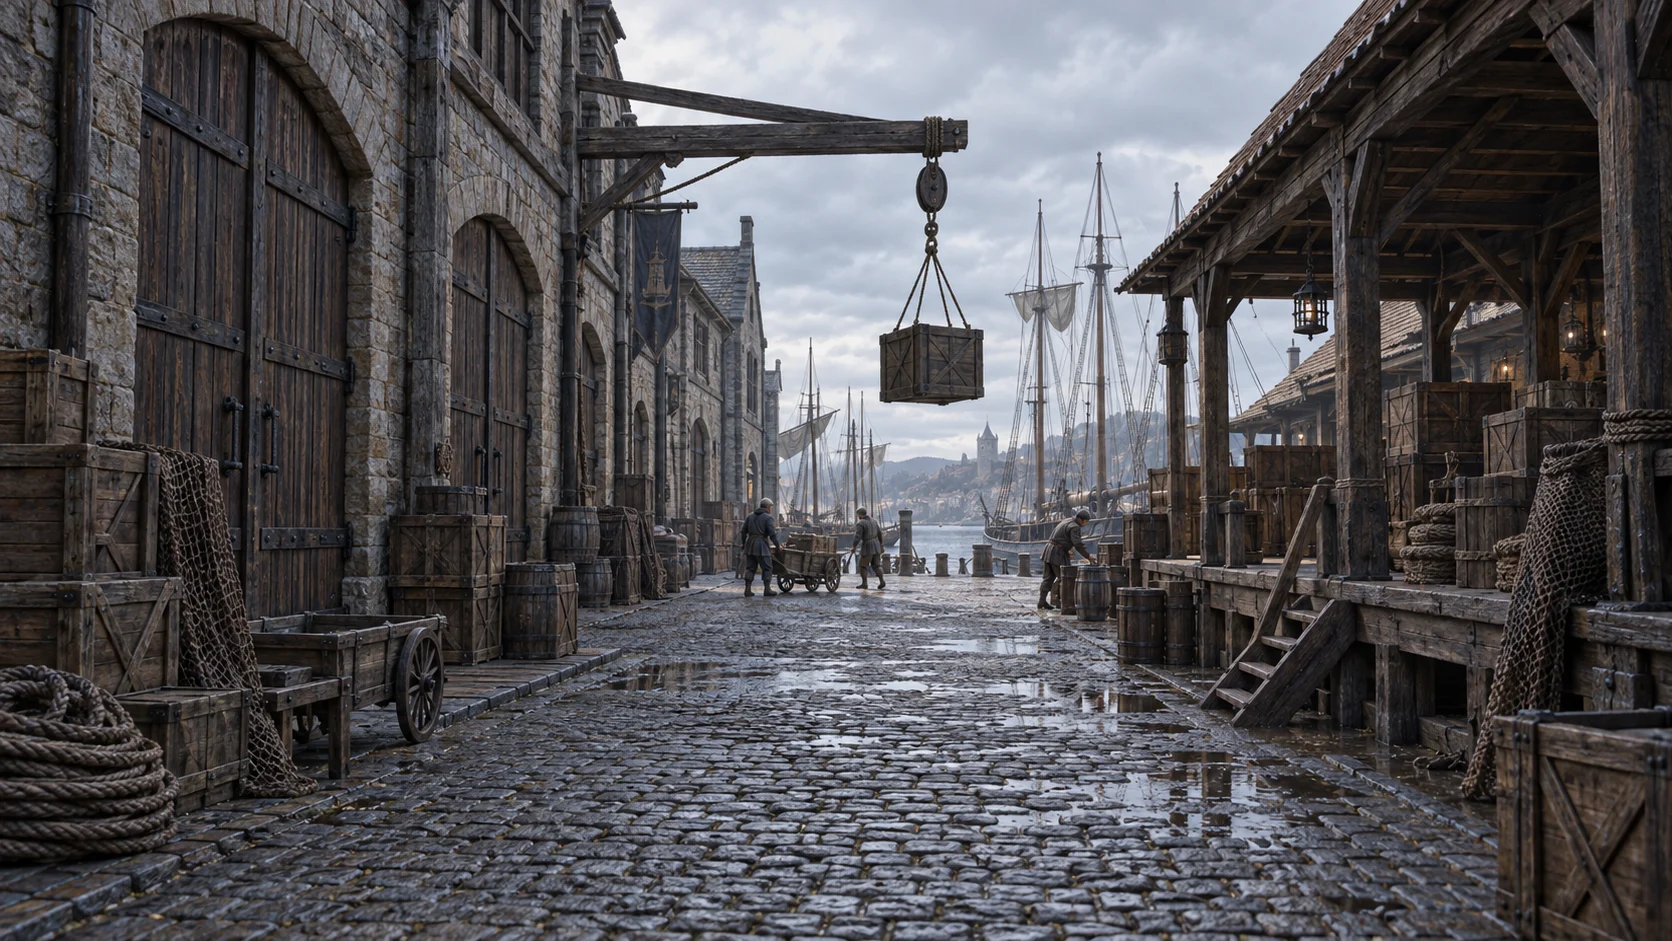
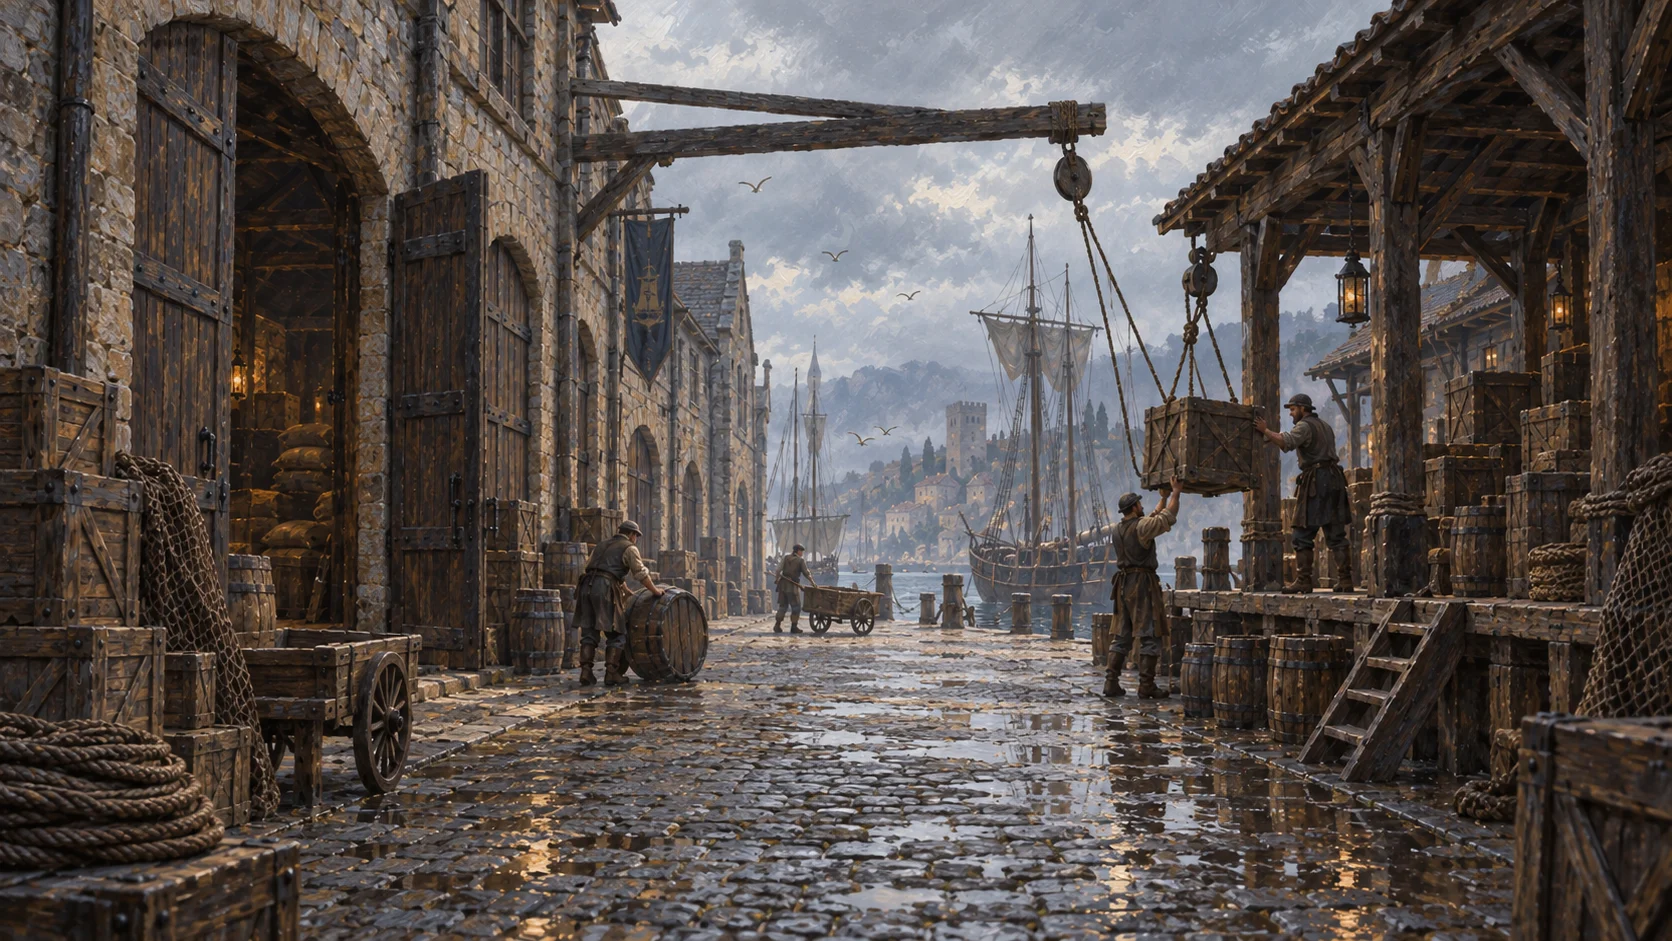
Refine eight illustrations to match harbor art and distinct day/night activity

diff --git a/guides/image_batch_20260909.md b/guides/image_batch_20260909.md
@@ -36,3 +36,13 @@
 ## 검증
 
 로컬 격리 하네스에서 기존 매처 24개 + 신규 조건 7개 테스트 통과. Nest/LLM 외부 경계만 스텁하고 실제 매처/asset-pool 코드를 실행했다. sync sidecar 왕복, 54개 기존 컷 유지, 새 2개 ID 유일성, 새 8개 URL 파일 존재, 시간대/안전도 fallback을 확인했다. 실제 모델의 오매칭률 검증은 운영 플레이 표본이 필요하다.
+
+## 화풍 및 시간대 개정
+
+승인된 그레이마르 항구 메인 일러스트를 직접 참조해 8장 모두 다시 생성했다. 사진 같은 선명도와 광택을 낮추고, 가시적인 붓결·부드러운 윤곽·대기 원근·환경에 녹아드는 작은 인물을 기준으로 통일했다. 그레이마르와 극야해안의 지역 설정은 분리한다.
+
+- 상류 거리 낮: 열린 문, 배달 손수레와 하인, 정원사와 행인. 밤: 닫힌 문과 덧창, 마차와 방문객, 순찰 인원.
+- 창고구 낮: 열린 창고, 화물 하역과 노동자, 수레와 큰 배. 밤: 잠긴 창고, 자물쇠를 확인하는 경비, 덮개를 씌운 화물, 비어 있는 도르래와 작은 배, 수면 안개.
+- 전경·여관·조사 컷도 같은 회화적 처리로 다시 제작하되 기존 공간과 단서의 의미를 유지한다.
+
+시간대 이미지는 색온도만 바꾸지 않고 물체 상태, 사람의 역할과 행동, 환경을 함께 바꾼다. 기존 URL과 장면 ID를 유지해 WebP 파일만 교체했다. 개정본도 1672×941, WebP quality 86이다.
